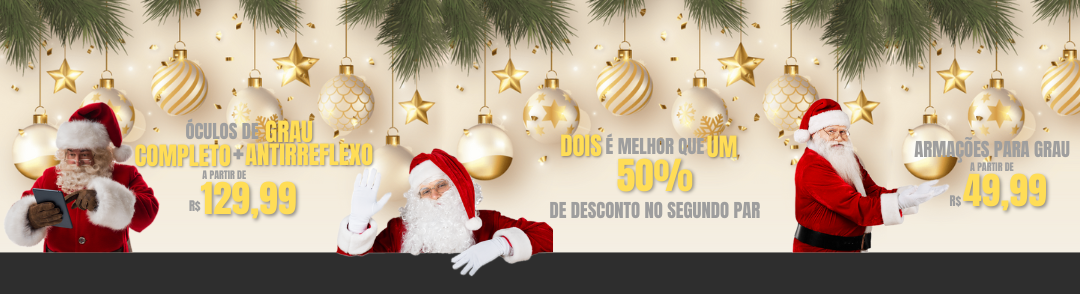
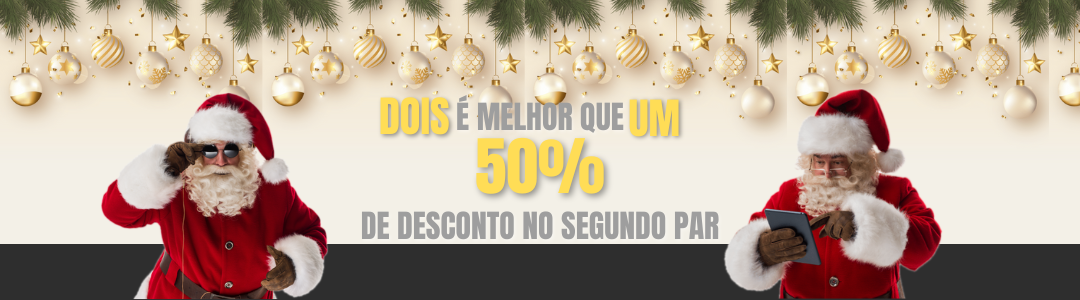
responsividade das atualizacoes

diff --git a/index.html b/index.html
@@ -101,17 +101,17 @@
             <div class="carousel">
                 <div class="carousel-track">
                     <img src="img/banners/Banners Natal/1.png" alt="Imagem 1 desk" class="desk">
-                    <img src="img/banners/Banners Natal/1.png" alt="Imagem 2 desk" class="desk">
-                    <img src="img/banners/Banners Natal/1.png" alt="Imagem 3 desk" class="desk">
-                    <img src="img/banners/Banners Natal/1.png" alt="Imagem 4 mobi" class="mobi">
-                    <img src="img/banners/Banners Natal/1.png" alt="Imagem 5 mobi" class="mobi">
-                    <img src="img/banners/Banners Natal/1.png" alt="Imagem 6 mobi" class="mobi">
+                    <img src="img/banners/Banners Natal/2.png" alt="Imagem 2 desk" class="desk">
+                    <img src="img/banners/Banners Natal/3.png" alt="Imagem 3 desk" class="desk">
+                    <img src="img/banners/Banners Natal/4.png" alt="Imagem 4 mobi" class="mobi">
+                    <img src="img/banners/Banners Natal/5.png" alt="Imagem 5 mobi" class="mobi">
+                    <img src="img/banners/Banners Natal/6.png" alt="Imagem 6 mobi" class="mobi">
                     <img src="img/banners/Banners Natal/1.png" alt="Imagem 1 Clone desk" class="desk">
-                    <img src="img/banners/Banners Natal/1.png" alt="Imagem 2 Clone desk" class="desk">
-                    <img src="img/banners/Banners Natal/1.png" alt="Imagem 3 Clone desk" class="desk">
-                    <img src="img/banners/Banners Natal/1.png" alt="Imagem 4 Clone mobi" class="mobi">
-                    <img src="img/banners/Banners Natal/1.png" alt="Imagem 5 Clone mobi" class="mobi">
-                    <img src="img/banners/Banners Natal/1.png" alt="Imagem 6 Cçone mobi" class="mobi">
+                    <img src="img/banners/Banners Natal/2.png" alt="Imagem 2 Clone desk" class="desk">
+                    <img src="img/banners/Banners Natal/3.png" alt="Imagem 3 Clone desk" class="desk">
+                    <img src="img/banners/Banners Natal/4.png" alt="Imagem 4 Clone mobi" class="mobi">
+                    <img src="img/banners/Banners Natal/5.png" alt="Imagem 5 Clone mobi" class="mobi">
+                    <img src="img/banners/Banners Natal/6.png" alt="Imagem 6 Cçone mobi" class="mobi">
                 </div>
               </div>
         </section>

diff --git a/styles/carousel.css b/styles/carousel.css
@@ -16,12 +16,17 @@
   display: flex;
   width: calc(1080px * 6); /* 3 imagens originais + 3 clones */
   animation: scroll 50s linear infinite;
+  background-color: var(--cinza-principal);
 }
   
 .carousel-track img {
-  width: 1080px;
-  height: 300px;
   object-fit: cover;
+  border-radius: 2rem;
+  box-shadow: 0px 0px 10px var(--cor-fundo);
+}
+
+.mobi, .desk {
+  margin: 2rem;
 }
   
 @keyframes scroll {
@@ -42,6 +47,7 @@
 @media (max-width: 600px) {
 
   .carousel__promocional__container{
+    width: 100%;
     margin: 0;
     padding: 0;
   }
@@ -50,7 +56,11 @@
     display: none;
   }
   .mobi {
-    display: block;
+    display: flex;
+  }
+
+  .carousel-track img {
+    width: 5%;
   }
 
 }

diff --git a/styles/banner-principal.css b/styles/banner-principal.css
@@ -7,8 +7,18 @@
 }
 
 .banner__principal__logo {
-    width: 20rem;
-    opacity: 80%;
+    width: 14rem;
+    opacity: 0; /* Começa invisível */
+    animation: fadeIn 2s forwards; /* Aplica a animação fadeIn */
+}
+
+@keyframes fadeIn {
+    0% {
+        opacity: 0; /* Começa invisível */
+    }
+    100% {
+        opacity: 1; /* Finaliza totalmente visível */
+    }
 }
 
 .banner__principal__redes {
@@ -35,10 +45,7 @@
 }
 
 @media (max-width: 600px) {
-
     .banner__principal__logo {
         width: 13rem;
     }
-
-    
 }

diff --git a/style.css b/style.css
@@ -95,7 +95,8 @@ section {
 .linha3 {
     border: 1px solid transparent;
     box-shadow: 0 0 10px var(--cor-sombra); /* Efeito de sombra esfumaçada */
-    border-radius: .5rem;    width: 60rem;
+    border-radius: .5rem;    
+    width: 60rem;
     height: 21rem;
     position: absolute;
     top: 50%;
@@ -103,6 +104,7 @@ section {
     transform: translate(-50%, -50%);
     z-index: -1;
 }
+
 
 
 @media (max-width: 600px) {

diff --git a/styles/end-banner.css b/styles/end-banner.css
@@ -31,6 +31,8 @@
       padding-inline: 1rem;
       align-items: center;
       justify-content: center;
+      display: flex;
+      flex-wrap: wrap;
     }
 
     #address {

diff --git a/styles/carousel-produtos.css b/styles/carousel-produtos.css
@@ -80,3 +80,7 @@
 .carousel-button.right {
   right: 10px;
 }
+
+@media (max-width:600px) {
+  
+}
